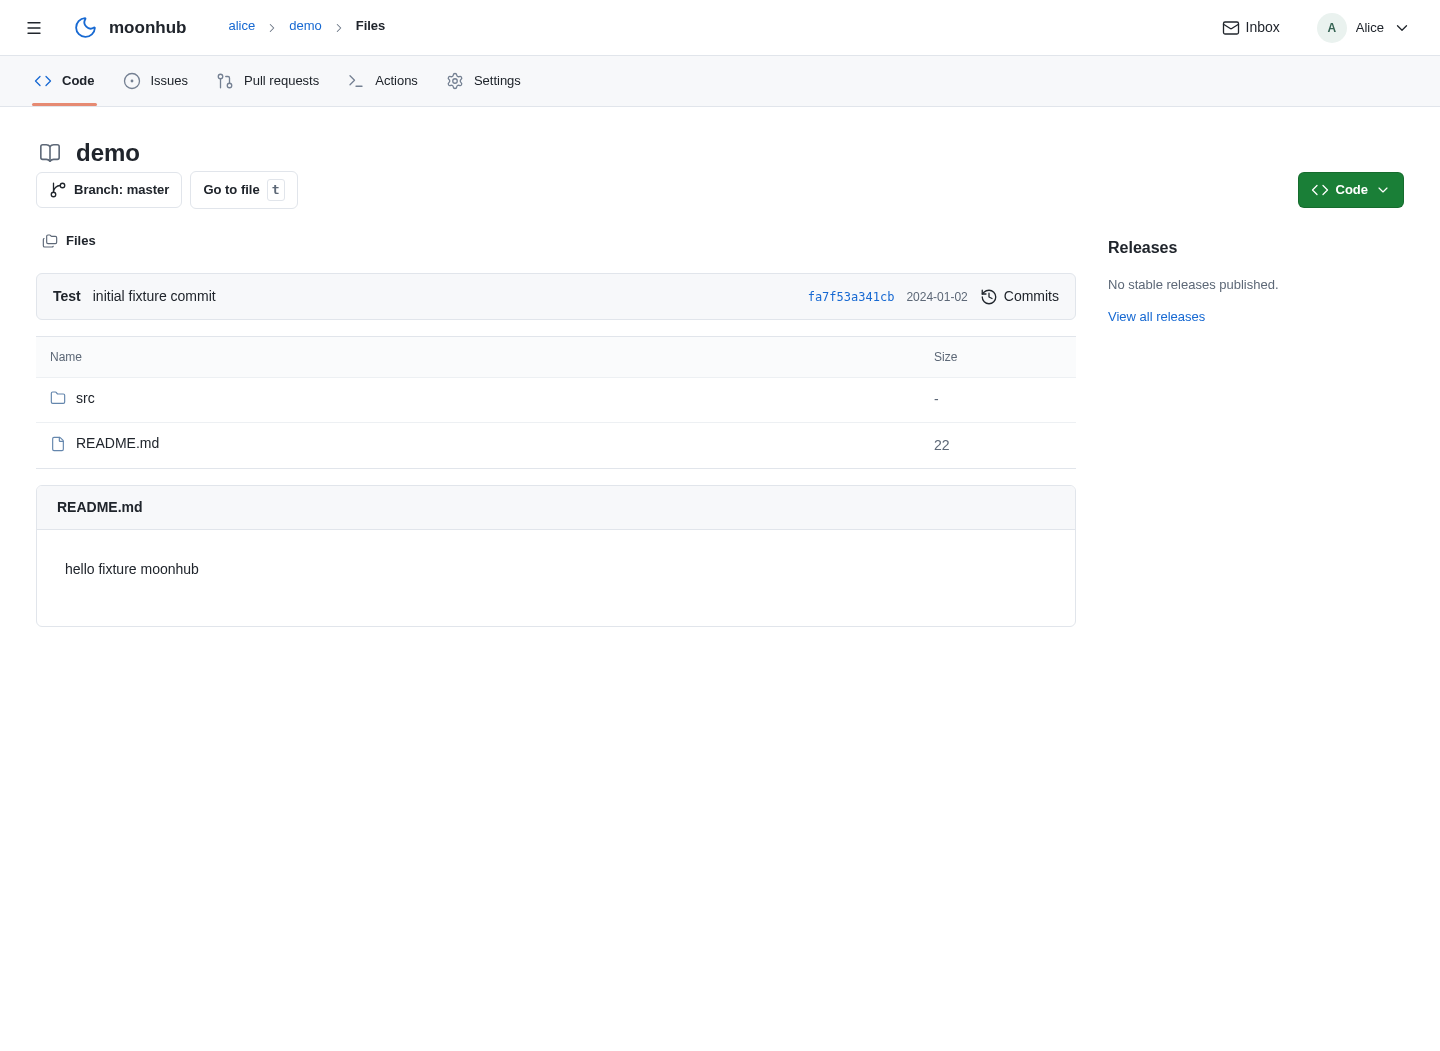
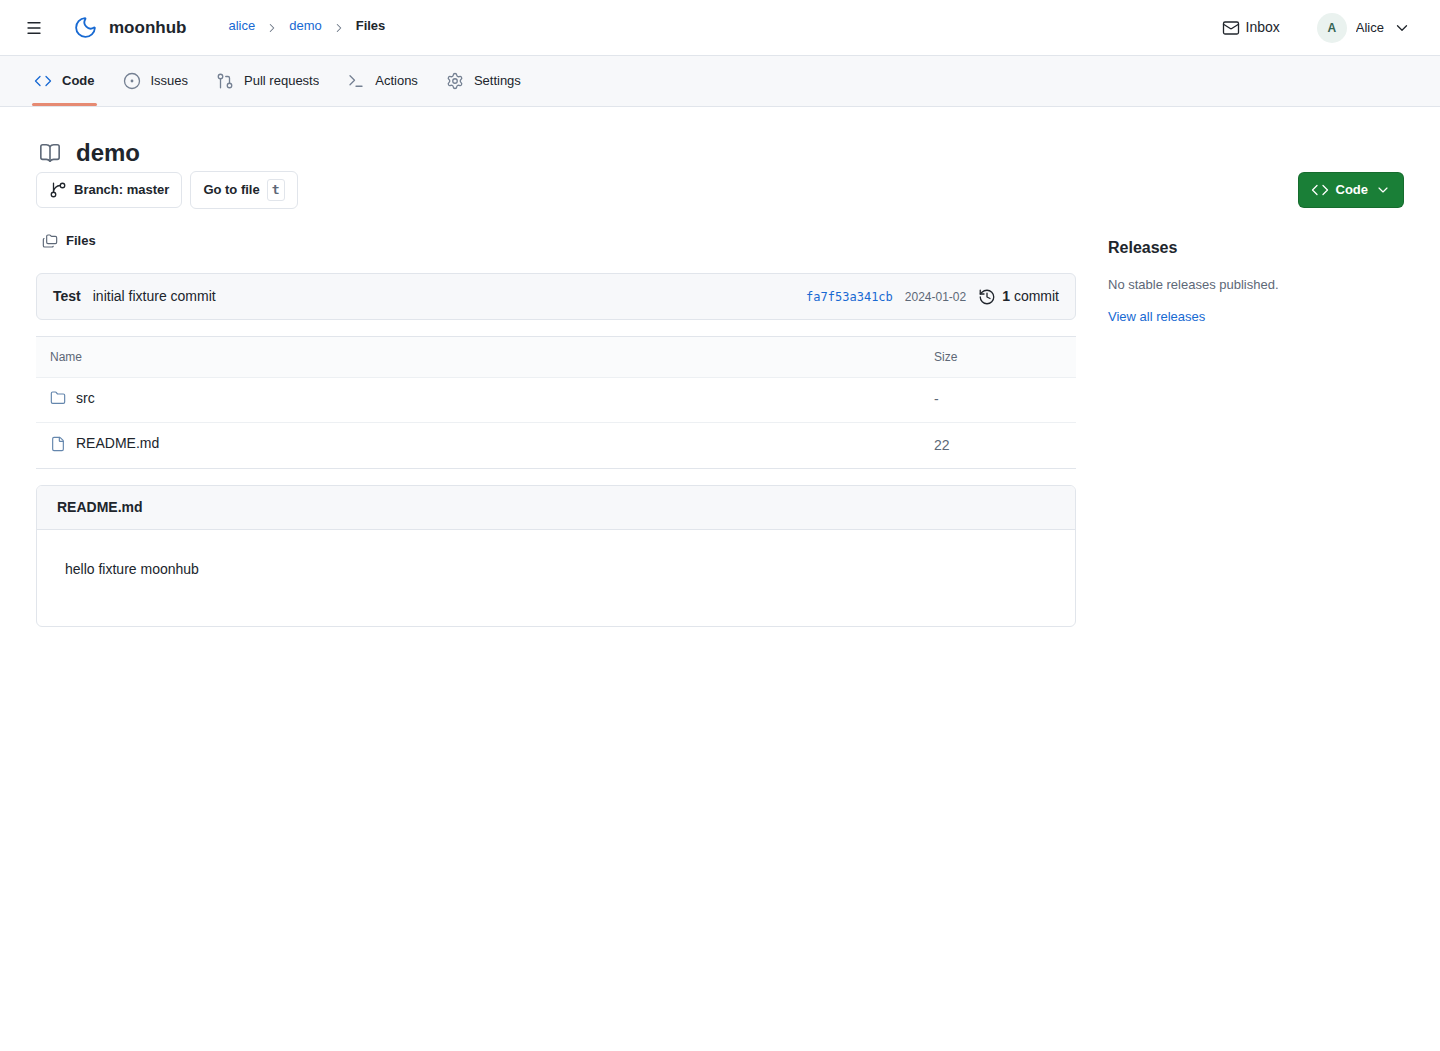
feat(repositories): show full commit counts in code summaries

diff --git a/js/tests/repository-ux.spec.ts b/js/tests/repository-ux.spec.ts
@@ -189,7 +189,7 @@ for (const width of [320, 390, 900, 1440]) {
     await expect(page.locator('[data-sidebar-open], #app-sidebar')).toHaveCount(0);
     await expect(page.locator('.code-toolbar').getByRole('link', { name: 'History', exact: true })).toHaveCount(0);
     const summary = page.locator('.commit-summary');
-    const history = summary.getByRole('link', { name: 'Commits', exact: true });
+    const history = summary.getByRole('link', { name: '1 commit', exact: true });
     await expect(history).toHaveAttribute('href', '/alice/demo/commits?rev=master');
     const links = await summary.locator('a').evaluateAll(links => links.map(a => a.getAttribute('href')));
     expect(links[0]).toBe(links[1]);
@@ -217,6 +217,7 @@ for (const width of [320, 390, 900, 1440]) {
       const chosen = new URL((await choice.getAttribute('href'))!, page.url()).searchParams.get('rev')!;
       await choice.click();
       await expect(page.locator('.commit-history')).toHaveAttribute('href', '/alice/demo/commits?rev=' + chosen);
+      await expect(page.locator('.commit-history')).toHaveText(label.startsWith('Branch:') ? '2 commits' : '1 commit');
       await expect(page.locator('.commit-subject')).toHaveAttribute('href', '/alice/demo/commit/' + chosen);
       await expect(release).toHaveCount(1);
       await page.locator('.commit-history').click();
@@ -232,6 +233,7 @@ for (const width of [320, 390, 900, 1440]) {
     await expect(release).toHaveCount(0);
     await page.goto('/alice/empty');
     await expect(page.locator('.commit-summary')).toContainText('No commits yet.');
+    await expect(page.locator('.commit-history')).toHaveText('0 commits');
     await expect(page.locator('a[href*="/empty/commit/"]')).toHaveCount(0);
     await page.locator('.commit-history').click();
     await expect(page.locator('main')).toContainText('No commits.');

diff --git a/docs/repository-ux.md b/docs/repository-ux.md
@@ -12,7 +12,7 @@ Rabbita document navigation, React code view and EasyMDE editors.
 | Area | Implemented presentation |
 | --- | --- |
 | Shared shell | Persistent repository tabs; independent global drawer; feature sidebars; manager-only Settings; keyboard focus restoration and native details fallback |
-| Code and commits | Branch/tag picker, bounded file finder, green SSH Code menu, head commit summary with a right-aligned Commits history link, root-only Releases summary, safe README preview, directory navigation, line references, exact text/path copy, Markdown Preview/Code switch |
+| Code and commits | Branch/tag picker, bounded file finder, green SSH Code menu, head commit summary with the full commit count linked to revision history, root-only Releases summary, safe README preview, directory navigation, line references, exact text/path copy, Markdown Preview/Code switch |
 | Create/import | Shared owner, name, visibility and source fields; existing queued/running/failed feedback, retry, discard and Refresh behavior |
 | Issues | Title search, Open/Closed filters, All/Assigned to me sidebar, compact rows, discussion cards, assignee/related PR/subscription rail, independent close/comment actions and `#` copy references |
 | Pull requests | User-facing PR names with unchanged `/merge-requests` routes; base ← compare; normal/draft selection; Conversation/Commits/Files changed; version-aware review panel; reviewers in the right rail; checks and merge readiness below Conversation |
@@ -27,11 +27,14 @@ fallback when the index reaches its limit or cannot be decoded. README previews
 are bounded to 256 KiB. Branch/tag choices distinguish same-named references;
 ambiguous choices use object identities. No recursive browser crawl is used.
 
-Code directory pages place **Commits**, with a history icon, at the right of the
-head commit summary above the files. The subject and hash open commit details;
-Commits opens `/commits?rev=...` with the current branch, tag or commit. No total
-is inferred from the bounded history query. Empty repositories keep an empty
-history link without a commit-detail link. File pages retain **History**.
+Code directory pages place the full commit count, with a history icon, at the
+right of the head commit summary above the files: **1 commit**, **52 commits** or
+**0 commits** for an empty repository. The subject and hash open commit details;
+the count opens `/commits?rev=...` with the current branch, tag or commit. The
+total counts all commits reachable from the summary's commit SHA, independently
+of the 50-entry history query. A TODO records future SHA-based caching and bitmap
+index optimization. Empty repositories keep an empty-history link without a
+commit-detail link. File pages retain **History**.
 
 Only the repository root displays a Releases summary, including roots selected
 through branch, tag or commit navigation. Its 296px rail has a 32px gap; at 900px

diff --git a/docs/repository-ux-review.md b/docs/repository-ux-review.md
@@ -28,10 +28,13 @@ repository managers and opens the existing branch protection page by default.
 Code removes the whole feature sidebar, including its workspace switcher and
 collapse controls, and uses the available width. Other feature sidebars remain.
 The branch/tag picker, file finder and green Code menu sit above the files.
-The head commit summary places the history icon and **Commits** at the right.
-Its title and hash open commit details; Commits keeps the selected revision in
-`/commits?rev=...`. No commit total is inferred from the bounded query. Empty
-repositories keep a usable empty-history link without invalid commit links.
+The head commit summary places the history icon and full commit count at the
+right, with **1 commit**, **52 commits** or **0 commits** as appropriate. Its title
+and hash open commit details; the count keeps the selected revision in
+`/commits?rev=...`. The total counts all commits reachable from the summary's
+commit SHA, independently of the 50-entry history query. A TODO records future
+SHA-based caching and bitmap index optimization. Empty repositories keep a
+usable empty-history link without invalid commit links.
 File pages keep History. A safely rendered README follows the files. File
 pages add directory navigation, line anchors, path/source copying and Markdown
 Preview/Code switching. Creation and import forms explicitly show Owner,
@@ -75,7 +78,7 @@ After:
 
 ![Commit history without a feature sidebar](images/repository-ux/commit-history-desktop.png)
 
-<img src="images/repository-ux/code-empty-mobile.png" alt="Empty repository with a usable Commits link at 390px" width="390">
+<img src="images/repository-ux/code-empty-mobile.png" alt="Empty repository with a usable 0 commits link at 390px" width="390">
 
 </details>
 
@@ -262,6 +265,12 @@ section to reduce accidental submissions.
   adds no public interfaces or shared layout parameters.
 
 ## Validation results and limitations
+
+The commit-count update passed 40 repository page tests and five focused browser
+tests covering branch/tag selection, empty repositories, responsive layouts and
+native navigation. The HTTP regression includes 52 reachable commits to verify
+totals beyond the 50-entry history limit. Nine Code screenshots were refreshed.
+The table below records the earlier full UX acceptance run.
 
 | Check | Result |
 | --- | --- |
